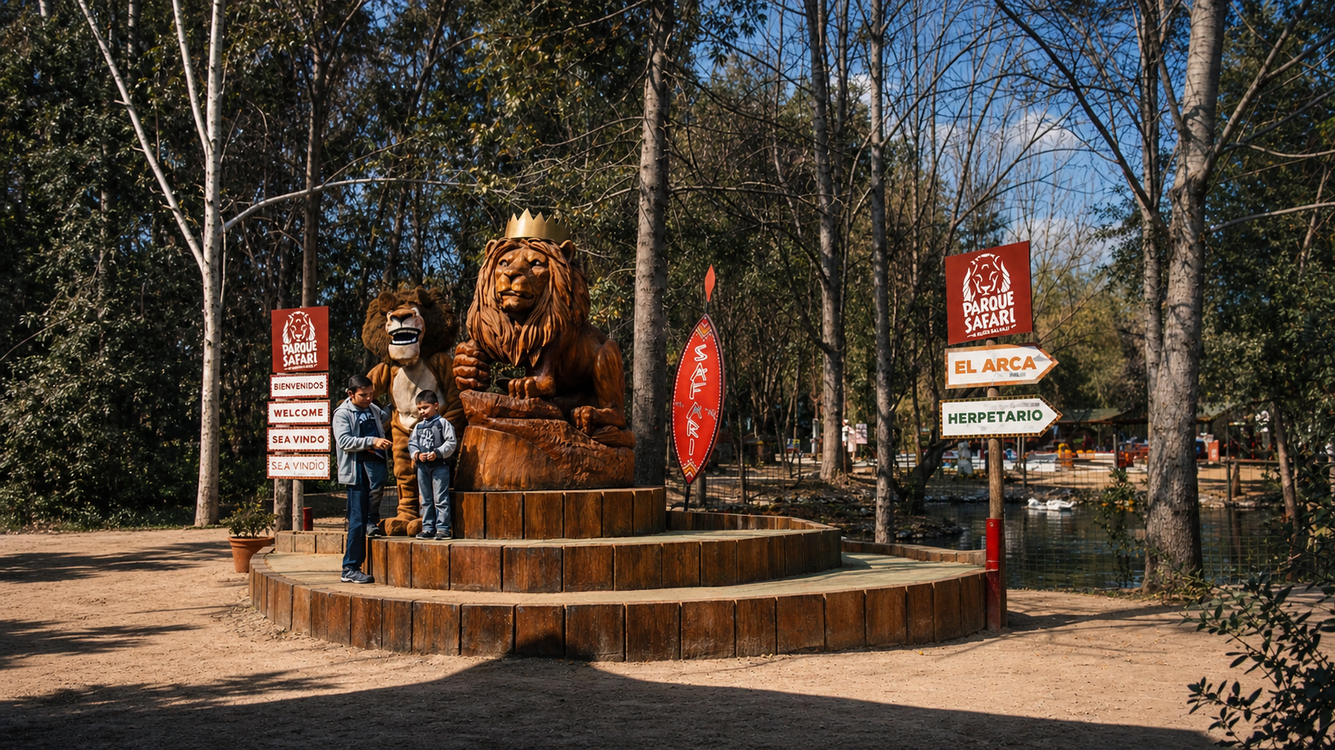
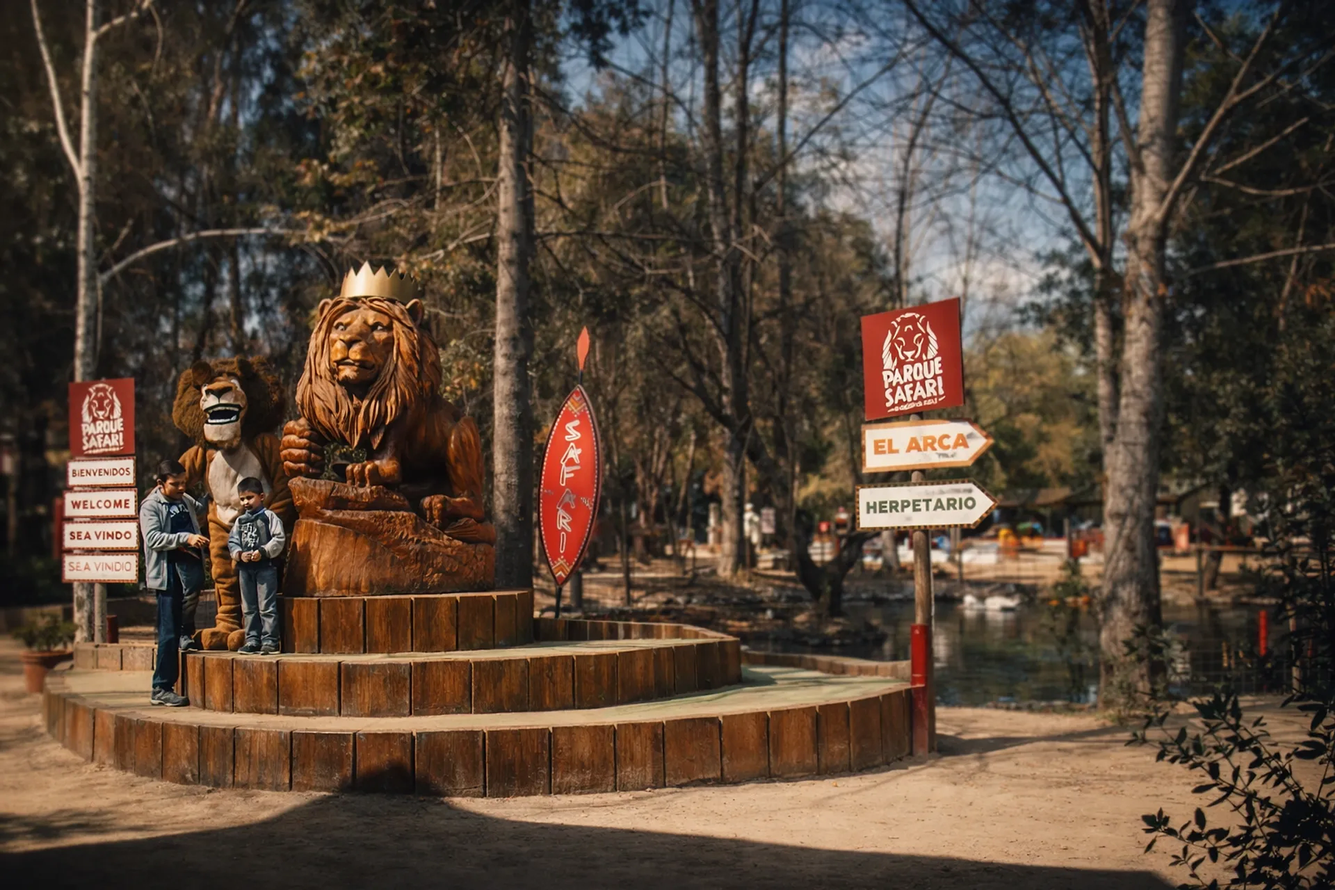
feat: refine Safari and Bahai galleries

diff --git a/app/data.ts b/app/data.ts
@@ -220,7 +220,11 @@ export const tours: Tour[] = [
     price: price(50000, 323), times: "Saída a partir das 9h • retorno aproximado às 17h",
     itinerary: ["Retirada na hospedagem", "Visita ao Templo Bahá’í", "Tempo de contemplação e mirante", "Cousiño Macul", "Vinhedos e caves", "Degustação guiada", "Retorno"],
     climate: "O templo pode restringir acesso por eventos. A área externa está sujeita ao clima.",
-    images: [media("templo-bahai", "templo-bahai-004"), media("templo-bahai", "templo-bahai-001"), media("templo-bahai", "templo-bahai-002")],
+    images: [
+      "/images/tours/templo-bahai-principal-4k.webp",
+      "/images/tours/templo-bahai-mirante-4k.webp",
+      "/images/tours/templo-bahai-jardins-4k.webp",
+    ],
   },
   {
     ...shared, slug: "isla-negra-algarrobo-undurraga", name: "Isla Negra + Algarrobo + Undurraga", eyebrow: "Poesia, mar & vinho",
